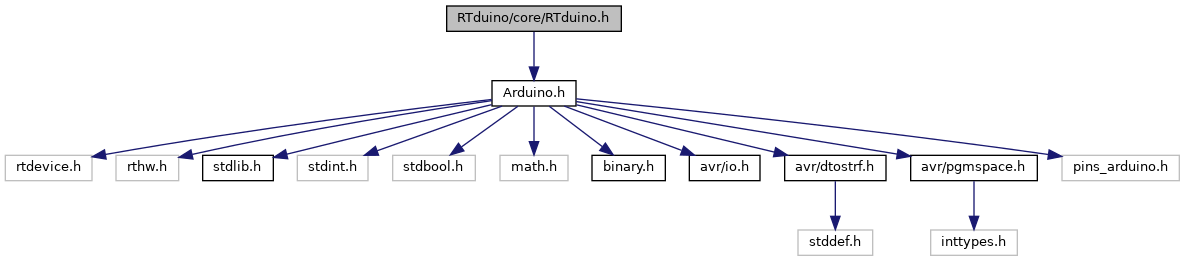
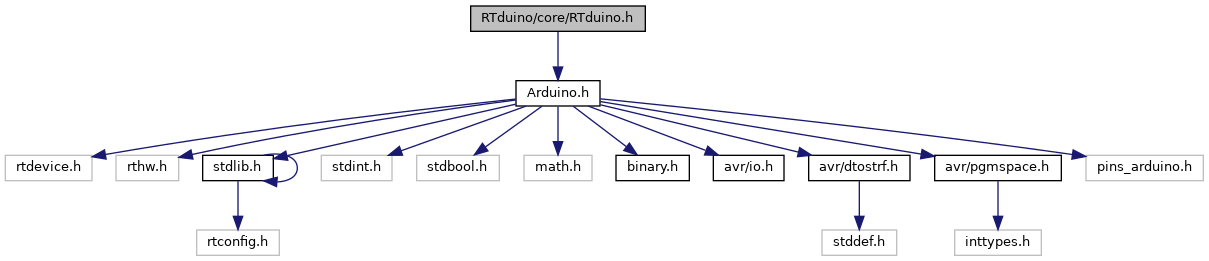
Deploying to gh-pages from @ RTduino/source-manual@973b168f84565ebd3bb219471b74c9d7cd966a09 🚀

diff --git a/stdlib_8h_source.html b/stdlib_8h_source.html
@@ -85,21 +85,30 @@ $(function() {
 <div class="line"><a name="l00014"></a><span class="lineno">   14</span>&#160;<span class="preprocessor">#ifndef __AVR_STDLIB_H__</span></div>
 <div class="line"><a name="l00015"></a><span class="lineno">   15</span>&#160;<span class="preprocessor">#define __AVR_STDLIB_H__</span></div>
 <div class="line"><a name="l00016"></a><span class="lineno">   16</span>&#160; </div>
-<div class="line"><a name="l00017"></a><span class="lineno">   17</span>&#160;<span class="preprocessor">#if RT_VER_NUM &gt;= 0x40101</span></div>
-<div class="line"><a name="l00018"></a><span class="lineno">   18</span>&#160;<span class="preprocessor">#include &lt;posix/stdlib.h&gt;</span></div>
-<div class="line"><a name="l00019"></a><span class="lineno">   19</span>&#160;<span class="preprocessor">#else</span></div>
-<div class="line"><a name="l00020"></a><span class="lineno">   20</span>&#160; </div>
-<div class="line"><a name="l00021"></a><span class="lineno">   21</span>&#160;<span class="preprocessor">#ifdef __cplusplus</span></div>
-<div class="line"><a name="l00022"></a><span class="lineno">   22</span>&#160;<span class="keyword">extern</span> <span class="stringliteral">&quot;C&quot;</span> {</div>
-<div class="line"><a name="l00023"></a><span class="lineno">   23</span>&#160;<span class="preprocessor">#endif </span><span class="comment">/* __cplusplus */</span><span class="preprocessor"></span></div>
+<div class="line"><a name="l00017"></a><span class="lineno">   17</span>&#160;<span class="preprocessor">#include &lt;rtconfig.h&gt;</span></div>
+<div class="line"><a name="l00018"></a><span class="lineno">   18</span>&#160; </div>
+<div class="line"><a name="l00019"></a><span class="lineno">   19</span>&#160;<span class="preprocessor">#if RT_VER_NUM &gt;= 0x40101</span></div>
+<div class="line"><a name="l00020"></a><span class="lineno">   20</span>&#160;<span class="preprocessor">#include &lt;posix/stdlib.h&gt;</span></div>
+<div class="line"><a name="l00021"></a><span class="lineno">   21</span>&#160;<span class="preprocessor">#else</span></div>
+<div class="line"><a name="l00022"></a><span class="lineno">   22</span>&#160; </div>
+<div class="line"><a name="l00023"></a><span class="lineno">   23</span>&#160;<span class="preprocessor">#include &lt;stdlib.h&gt;</span></div>
 <div class="line"><a name="l00024"></a><span class="lineno">   24</span>&#160; </div>
 <div class="line"><a name="l00025"></a><span class="lineno">   25</span>&#160;<span class="preprocessor">#ifdef __cplusplus</span></div>
-<div class="line"><a name="l00026"></a><span class="lineno">   26</span>&#160;} <span class="comment">/* extern &quot;C&quot; { */</span></div>
+<div class="line"><a name="l00026"></a><span class="lineno">   26</span>&#160;<span class="keyword">extern</span> <span class="stringliteral">&quot;C&quot;</span> {</div>
 <div class="line"><a name="l00027"></a><span class="lineno">   27</span>&#160;<span class="preprocessor">#endif </span><span class="comment">/* __cplusplus */</span><span class="preprocessor"></span></div>
 <div class="line"><a name="l00028"></a><span class="lineno">   28</span>&#160; </div>
-<div class="line"><a name="l00029"></a><span class="lineno">   29</span>&#160;<span class="preprocessor">#endif </span><span class="comment">/* RT_VER_NUM &gt;= 0x40101 */</span><span class="preprocessor"></span></div>
-<div class="line"><a name="l00030"></a><span class="lineno">   30</span>&#160; </div>
-<div class="line"><a name="l00031"></a><span class="lineno">   31</span>&#160;<span class="preprocessor">#endif </span><span class="comment">/* __AVR_STDLIB_H__ */</span><span class="preprocessor"></span></div>
+<div class="line"><a name="l00029"></a><span class="lineno">   29</span>&#160;<span class="keywordtype">char</span>* itoa(<span class="keywordtype">int</span> value, <span class="keywordtype">char</span> *<span class="keywordtype">string</span>, <span class="keywordtype">int</span> radix);</div>
+<div class="line"><a name="l00030"></a><span class="lineno">   30</span>&#160;<span class="keywordtype">char</span>* ltoa(<span class="keywordtype">long</span> value, <span class="keywordtype">char</span> *<span class="keywordtype">string</span>, <span class="keywordtype">int</span> radix);</div>
+<div class="line"><a name="l00031"></a><span class="lineno">   31</span>&#160;<span class="keywordtype">char</span>* utoa(<span class="keywordtype">unsigned</span> value, <span class="keywordtype">char</span> *<span class="keywordtype">string</span>, <span class="keywordtype">int</span> radix);</div>
+<div class="line"><a name="l00032"></a><span class="lineno">   32</span>&#160;<span class="keywordtype">char</span>* ultoa(<span class="keywordtype">unsigned</span> <span class="keywordtype">long</span> value, <span class="keywordtype">char</span> *<span class="keywordtype">string</span>, <span class="keywordtype">int</span> radix);</div>
+<div class="line"><a name="l00033"></a><span class="lineno">   33</span>&#160; </div>
+<div class="line"><a name="l00034"></a><span class="lineno">   34</span>&#160;<span class="preprocessor">#ifdef __cplusplus</span></div>
+<div class="line"><a name="l00035"></a><span class="lineno">   35</span>&#160;} <span class="comment">/* extern &quot;C&quot; { */</span></div>
+<div class="line"><a name="l00036"></a><span class="lineno">   36</span>&#160;<span class="preprocessor">#endif </span><span class="comment">/* __cplusplus */</span><span class="preprocessor"></span></div>
+<div class="line"><a name="l00037"></a><span class="lineno">   37</span>&#160; </div>
+<div class="line"><a name="l00038"></a><span class="lineno">   38</span>&#160;<span class="preprocessor">#endif </span><span class="comment">/* RT_VER_NUM &gt;= 0x40101 */</span><span class="preprocessor"></span></div>
+<div class="line"><a name="l00039"></a><span class="lineno">   39</span>&#160; </div>
+<div class="line"><a name="l00040"></a><span class="lineno">   40</span>&#160;<span class="preprocessor">#endif </span><span class="comment">/* __AVR_STDLIB_H__ */</span><span class="preprocessor"></span></div>
 </div><!-- fragment --></div><!-- contents -->
 <!-- start footer part -->
 <hr class="footer"/><address class="footer"><small>

diff --git a/ctype_8h_source.html b/ctype_8h_source.html
@@ -85,21 +85,28 @@ $(function() {
 <div class="line"><a name="l00014"></a><span class="lineno">   14</span>&#160;<span class="preprocessor">#ifndef __AVR_CTYPE_H__</span></div>
 <div class="line"><a name="l00015"></a><span class="lineno">   15</span>&#160;<span class="preprocessor">#define __AVR_CTYPE_H__</span></div>
 <div class="line"><a name="l00016"></a><span class="lineno">   16</span>&#160; </div>
-<div class="line"><a name="l00017"></a><span class="lineno">   17</span>&#160;<span class="preprocessor">#if RT_VER_NUM &gt;= 0x40101</span></div>
-<div class="line"><a name="l00018"></a><span class="lineno">   18</span>&#160;<span class="preprocessor">#include &lt;posix/ctype.h&gt;</span></div>
-<div class="line"><a name="l00019"></a><span class="lineno">   19</span>&#160;<span class="preprocessor">#else</span></div>
-<div class="line"><a name="l00020"></a><span class="lineno">   20</span>&#160; </div>
-<div class="line"><a name="l00021"></a><span class="lineno">   21</span>&#160;<span class="preprocessor">#ifdef __cplusplus</span></div>
-<div class="line"><a name="l00022"></a><span class="lineno">   22</span>&#160;<span class="keyword">extern</span> <span class="stringliteral">&quot;C&quot;</span> {</div>
-<div class="line"><a name="l00023"></a><span class="lineno">   23</span>&#160;<span class="preprocessor">#endif </span><span class="comment">/* __cplusplus */</span><span class="preprocessor"></span></div>
+<div class="line"><a name="l00017"></a><span class="lineno">   17</span>&#160;<span class="preprocessor">#include &lt;rtconfig.h&gt;</span></div>
+<div class="line"><a name="l00018"></a><span class="lineno">   18</span>&#160; </div>
+<div class="line"><a name="l00019"></a><span class="lineno">   19</span>&#160;<span class="preprocessor">#if RT_VER_NUM &gt;= 0x40101</span></div>
+<div class="line"><a name="l00020"></a><span class="lineno">   20</span>&#160;<span class="preprocessor">#include &lt;posix/ctype.h&gt;</span></div>
+<div class="line"><a name="l00021"></a><span class="lineno">   21</span>&#160;<span class="preprocessor">#else</span></div>
+<div class="line"><a name="l00022"></a><span class="lineno">   22</span>&#160; </div>
+<div class="line"><a name="l00023"></a><span class="lineno">   23</span>&#160;<span class="preprocessor">#include &lt;ctype.h&gt;</span></div>
 <div class="line"><a name="l00024"></a><span class="lineno">   24</span>&#160; </div>
 <div class="line"><a name="l00025"></a><span class="lineno">   25</span>&#160;<span class="preprocessor">#ifdef __cplusplus</span></div>
-<div class="line"><a name="l00026"></a><span class="lineno">   26</span>&#160;} <span class="comment">/* extern &quot;C&quot; { */</span></div>
+<div class="line"><a name="l00026"></a><span class="lineno">   26</span>&#160;<span class="keyword">extern</span> <span class="stringliteral">&quot;C&quot;</span> {</div>
 <div class="line"><a name="l00027"></a><span class="lineno">   27</span>&#160;<span class="preprocessor">#endif </span><span class="comment">/* __cplusplus */</span><span class="preprocessor"></span></div>
 <div class="line"><a name="l00028"></a><span class="lineno">   28</span>&#160; </div>
-<div class="line"><a name="l00029"></a><span class="lineno">   29</span>&#160;<span class="preprocessor">#endif </span><span class="comment">/* RT_VER_NUM &gt;= 0x40101 */</span><span class="preprocessor"></span></div>
-<div class="line"><a name="l00030"></a><span class="lineno">   30</span>&#160; </div>
-<div class="line"><a name="l00031"></a><span class="lineno">   31</span>&#160;<span class="preprocessor">#endif </span><span class="comment">/* __AVR_CTYPE_H__ */</span><span class="preprocessor"></span></div>
+<div class="line"><a name="l00029"></a><span class="lineno">   29</span>&#160;<span class="preprocessor">#define isascii(__c) ((unsigned)(__c)&lt;=0177)</span></div>
+<div class="line"><a name="l00030"></a><span class="lineno">   30</span>&#160;<span class="preprocessor">#define toascii(__c)  ((__c)&amp;0177)</span></div>
+<div class="line"><a name="l00031"></a><span class="lineno">   31</span>&#160; </div>
+<div class="line"><a name="l00032"></a><span class="lineno">   32</span>&#160;<span class="preprocessor">#ifdef __cplusplus</span></div>
+<div class="line"><a name="l00033"></a><span class="lineno">   33</span>&#160;} <span class="comment">/* extern &quot;C&quot; { */</span></div>
+<div class="line"><a name="l00034"></a><span class="lineno">   34</span>&#160;<span class="preprocessor">#endif </span><span class="comment">/* __cplusplus */</span><span class="preprocessor"></span></div>
+<div class="line"><a name="l00035"></a><span class="lineno">   35</span>&#160; </div>
+<div class="line"><a name="l00036"></a><span class="lineno">   36</span>&#160;<span class="preprocessor">#endif </span><span class="comment">/* RT_VER_NUM &gt;= 0x40101 */</span><span class="preprocessor"></span></div>
+<div class="line"><a name="l00037"></a><span class="lineno">   37</span>&#160; </div>
+<div class="line"><a name="l00038"></a><span class="lineno">   38</span>&#160;<span class="preprocessor">#endif </span><span class="comment">/* __AVR_CTYPE_H__ */</span><span class="preprocessor"></span></div>
 </div><!-- fragment --></div><!-- contents -->
 <!-- start footer part -->
 <hr class="footer"/><address class="footer"><small>

diff --git a/RTduino_8h.html b/RTduino_8h.html
@@ -85,21 +85,22 @@ $(function() {
 <div id="dynsection-0-content" class="dyncontent" style="display:none;">
 <div class="center"><img src="RTduino_8h__incl.png" border="0" usemap="#aRTduino_2core_2RTduino_8h" alt=""/></div>
 <map name="aRTduino_2core_2RTduino_8h" id="aRTduino_2core_2RTduino_8h">
-<area shape="rect" title="RTduino Core Header File." alt="" coords="447,5,621,32"/>
-<area shape="rect" href="Arduino_8h.html" title="Arduino Core Header File." alt="" coords="492,80,576,107"/>
+<area shape="rect" title="RTduino Core Header File." alt="" coords="471,5,645,32"/>
+<area shape="rect" href="Arduino_8h.html" title="Arduino Core Header File." alt="" coords="516,80,600,107"/>
 <area shape="rect" title=" " alt="" coords="5,155,92,181"/>
 <area shape="rect" title=" " alt="" coords="116,155,179,181"/>
 <area shape="rect" href="stdlib_8h_source.html" title=" " alt="" coords="203,155,273,181"/>
-<area shape="rect" title=" " alt="" coords="297,155,368,181"/>
-<area shape="rect" title=" " alt="" coords="393,155,475,181"/>
-<area shape="rect" title=" " alt="" coords="500,155,568,181"/>
-<area shape="rect" href="binary_8h_source.html" title=" " alt="" coords="592,155,665,181"/>
-<area shape="rect" href="io_8h_source.html" title=" " alt="" coords="689,155,760,181"/>
-<area shape="rect" href="dtostrf_8h_source.html" title=" " alt="" coords="785,155,886,181"/>
-<area shape="rect" href="pgmspace_8h_source.html" title=" " alt="" coords="911,155,1037,181"/>
-<area shape="rect" title=" " alt="" coords="1062,155,1179,181"/>
-<area shape="rect" title=" " alt="" coords="798,229,873,256"/>
-<area shape="rect" title=" " alt="" coords="931,229,1017,256"/>
+<area shape="rect" title=" " alt="" coords="321,155,392,181"/>
+<area shape="rect" title=" " alt="" coords="417,155,499,181"/>
+<area shape="rect" title=" " alt="" coords="524,155,592,181"/>
+<area shape="rect" href="binary_8h_source.html" title=" " alt="" coords="616,155,689,181"/>
+<area shape="rect" href="io_8h_source.html" title=" " alt="" coords="713,155,784,181"/>
+<area shape="rect" href="dtostrf_8h_source.html" title=" " alt="" coords="809,155,910,181"/>
+<area shape="rect" href="pgmspace_8h_source.html" title=" " alt="" coords="935,155,1061,181"/>
+<area shape="rect" title=" " alt="" coords="1086,155,1203,181"/>
+<area shape="rect" title=" " alt="" coords="197,229,279,256"/>
+<area shape="rect" title=" " alt="" coords="822,229,897,256"/>
+<area shape="rect" title=" " alt="" coords="955,229,1041,256"/>
 </map>
 </div>
 </div>

diff --git a/Arduino_8h.html b/Arduino_8h.html
@@ -95,20 +95,21 @@ $(function() {
 <div id="dynsection-0-content" class="dyncontent" style="display:none;">
 <div class="center"><img src="Arduino_8h__incl.png" border="0" usemap="#aRTduino_2core_2Arduino_8h" alt=""/></div>
 <map name="aRTduino_2core_2Arduino_8h" id="aRTduino_2core_2Arduino_8h">
-<area shape="rect" title="Arduino Core Header File." alt="" coords="448,5,620,32"/>
+<area shape="rect" title="Arduino Core Header File." alt="" coords="472,5,644,32"/>
 <area shape="rect" title=" " alt="" coords="5,80,92,107"/>
 <area shape="rect" title=" " alt="" coords="116,80,179,107"/>
 <area shape="rect" href="stdlib_8h_source.html" title=" " alt="" coords="203,80,273,107"/>
-<area shape="rect" title=" " alt="" coords="297,80,368,107"/>
-<area shape="rect" title=" " alt="" coords="393,80,475,107"/>
-<area shape="rect" title=" " alt="" coords="500,80,568,107"/>
-<area shape="rect" href="binary_8h_source.html" title=" " alt="" coords="592,80,665,107"/>
-<area shape="rect" href="io_8h_source.html" title=" " alt="" coords="689,80,760,107"/>
-<area shape="rect" href="dtostrf_8h_source.html" title=" " alt="" coords="785,80,886,107"/>
-<area shape="rect" href="pgmspace_8h_source.html" title=" " alt="" coords="911,80,1037,107"/>
-<area shape="rect" title=" " alt="" coords="1062,80,1179,107"/>
-<area shape="rect" title=" " alt="" coords="798,155,873,181"/>
-<area shape="rect" title=" " alt="" coords="931,155,1017,181"/>
+<area shape="rect" title=" " alt="" coords="321,80,392,107"/>
+<area shape="rect" title=" " alt="" coords="417,80,499,107"/>
+<area shape="rect" title=" " alt="" coords="524,80,592,107"/>
+<area shape="rect" href="binary_8h_source.html" title=" " alt="" coords="616,80,689,107"/>
+<area shape="rect" href="io_8h_source.html" title=" " alt="" coords="713,80,784,107"/>
+<area shape="rect" href="dtostrf_8h_source.html" title=" " alt="" coords="809,80,910,107"/>
+<area shape="rect" href="pgmspace_8h_source.html" title=" " alt="" coords="935,80,1061,107"/>
+<area shape="rect" title=" " alt="" coords="1086,80,1203,107"/>
+<area shape="rect" title=" " alt="" coords="197,155,279,181"/>
+<area shape="rect" title=" " alt="" coords="822,155,897,181"/>
+<area shape="rect" title=" " alt="" coords="955,155,1041,181"/>
 </map>
 </div>
 </div><div class="textblock"><div id="dynsection-1" onclick="return toggleVisibility(this)" class="dynheader closed" style="cursor:pointer;">
